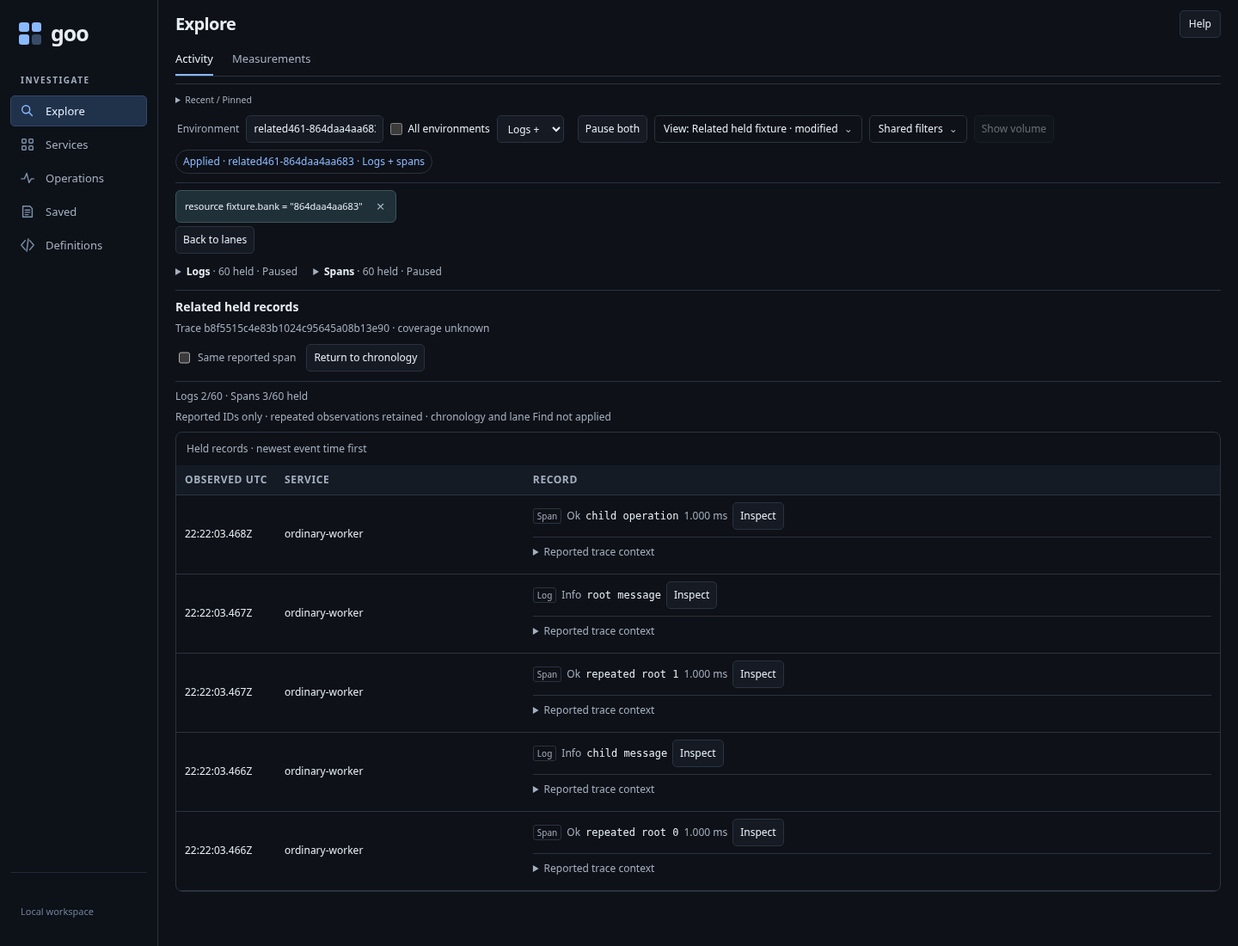
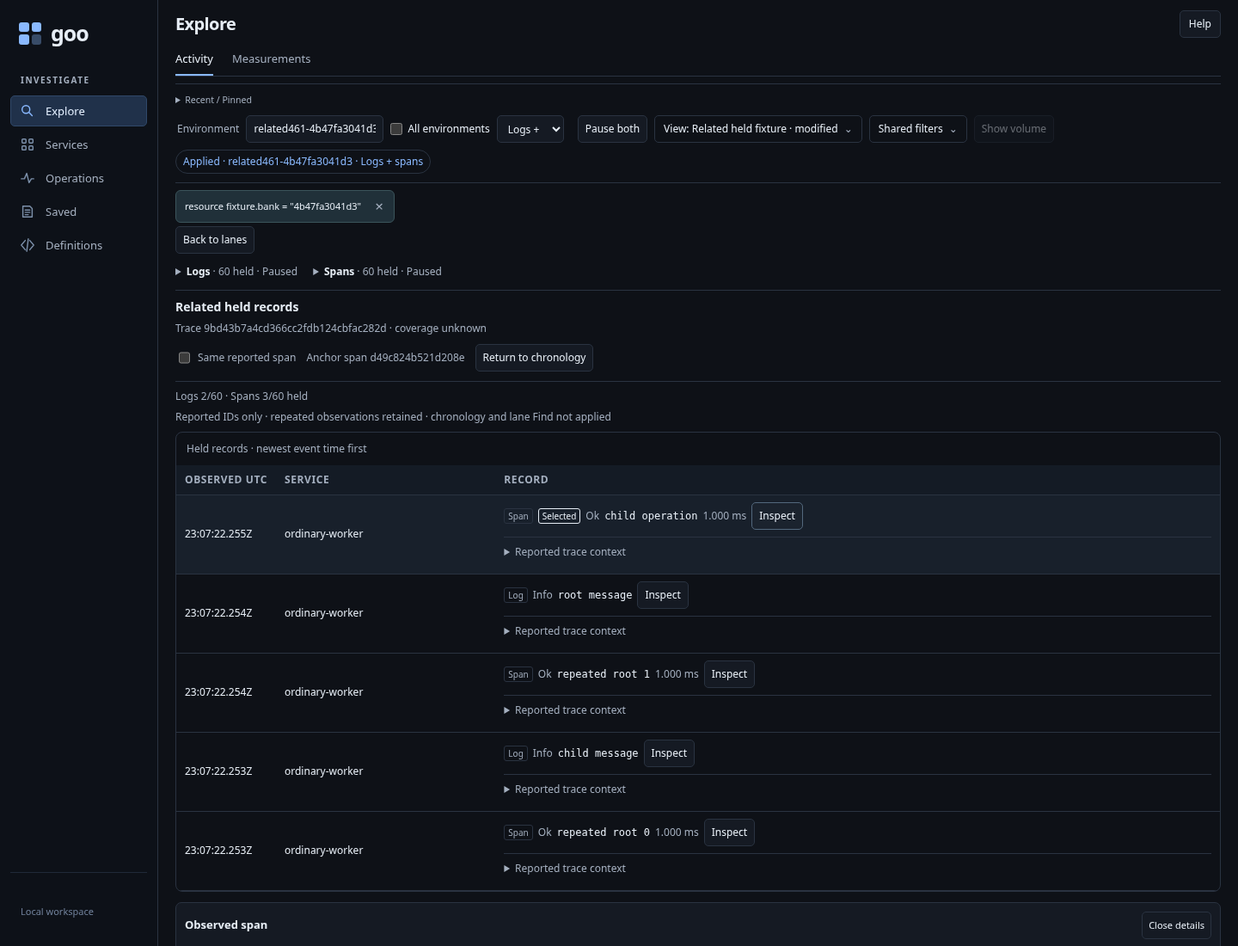
Address independent held-record UX and accessibility findings

diff --git a/journeys/related-held461.spec.js b/journeys/related-held461.spec.js
@@ -22,12 +22,15 @@ test('461 follow reported IDs across held lanes and return without source work',
   await pair().getByRole('button',{name:'Hold chronology',exact:true}).click();await expect(rows()).toHaveCount(100);
   await local('page, related trace/span, inspect and return',async()=>{
    await view().getByRole('button',{name:'More records',exact:true}).click();await expect(rows()).toHaveCount(20);const target=rows().filter({hasText:'child operation'});await target.getByRole('button',{name:/Inspect span/}).click();const before=await snapshot();await inspector().getByRole('button',{name:'Related held records',exact:true}).click();await expect(view()).toHaveAttribute('data-related','trace');await expect(rows()).toHaveCount(5);expect(await rows().evaluateAll(rows=>rows.filter(r=>r.dataset.signal==='logs').length)).toBe(2);await expect(view().locator('[data-related-heading]')).toBeFocused();await inspector().getByRole('button',{name:'Close selected item details',exact:true}).click();await expect(view().locator('[data-related-heading]')).toBeFocused();const childRow=rows().filter({hasText:'child operation'});await childRow.locator('details > summary').focus();await page.keyboard.press('Enter');await expect(childRow.getByText('Ambiguous reported parent',{exact:true})).toBeVisible();
-   await expect(view().getByText('Ambiguous reported parent',{exact:true})).toHaveCount(1);await view().getByRole('checkbox',{name:'Same reported span',exact:true}).check();await expect(rows()).toHaveCount(2);await view().getByRole('checkbox',{name:'Same reported span',exact:true}).uncheck();await expect(rows()).toHaveCount(5);
-   for(const width of [1440,390,320]){await page.setViewportSize({width,height:1100});expect(await page.evaluate(()=>document.documentElement.scrollWidth<=innerWidth+1)).toBe(true);const file='docs/journeys/screenshots/461-related-held-'+width+'.png';await page.screenshot({path:file});report.frames.push(file)}await page.setViewportSize({width:1440,height:1100});
+   await expect(view().getByText('Ambiguous reported parent',{exact:true})).toHaveCount(1);await view().getByRole('checkbox',{name:'Same reported span',exact:true}).check();await expect(rows()).toHaveCount(2);await view().getByRole('checkbox',{name:'Same reported span',exact:true}).uncheck();await expect(rows()).toHaveCount(5);await rows().filter({hasText:'child operation'}).getByRole('button',{name:/Inspect span/}).click();
+   for(const width of [1440,390,320]){await page.setViewportSize({width,height:1100});await page.evaluate(()=>scrollTo(0,0));expect(await page.evaluate(()=>document.documentElement.scrollWidth<=innerWidth+1)).toBe(true);const file='docs/journeys/screenshots/461-related-held-'+width+'.png';await page.screenshot({path:file});report.frames.push(file)}await page.setViewportSize({width:390,height:1100});await page.emulateMedia({forcedColors:'active'});const selectedRow=view().locator('tr[aria-current=true]');await expect(selectedRow.locator('.held-selected-marker')).toBeVisible();const forced=await selectedRow.evaluate(e=>({outline:getComputedStyle(e).outlineStyle,width:parseFloat(getComputedStyle(e).outlineWidth)}));expect(forced.outline).toBe('solid');expect(forced.width).toBeGreaterThanOrEqual(2);await page.evaluate(()=>scrollTo(0,0));await page.screenshot({path:'docs/journeys/screenshots/461-related-forced-colors-390.png'});report.forcedColors=forced;await page.emulateMedia({forcedColors:'none'});await page.setViewportSize({width:1440,height:1100});
    await rows().filter({hasText:'root message'}).getByRole('button',{name:/Inspect log/}).click();await view().getByRole('button',{name:'Return to chronology',exact:true}).click();await expect(view()).toHaveAttribute('data-related','none');const after=await snapshot();expect(after).toEqual(before);await expect(inspector()).toContainText('child operation');expect(await view().evaluate(e=>e.contains(document.activeElement)&&document.activeElement.dataset.chronologyInspect===e.selectedKey)).toBe(true);
   });
   await local('retain chronology Find without applying it to reported context',async()=>{
    await view().getByRole('searchbox',{name:'Find held records',exact:true}).fill('child operation');await expect(rows()).toHaveCount(1);await rows().getByRole('button',{name:/Inspect span/}).click();await inspector().getByRole('button',{name:'Related held records',exact:true}).click();await expect(rows()).toHaveCount(5);await view().getByRole('button',{name:'Return to chronology',exact:true}).click();await expect(view().getByRole('searchbox',{name:'Find held records',exact:true})).toHaveValue('child operation');await expect(rows()).toHaveCount(1);
+  });
+  await local('restore inspector when original row is hidden by Find and paging',async()=>{
+   await view().getByRole('searchbox',{name:'Find held records',exact:true}).fill('background');await view().getByRole('button',{name:'More records',exact:true}).click();await expect(rows().filter({hasText:'child operation'})).toHaveCount(0);const before=await snapshot();await inspector().getByRole('button',{name:'Related held records',exact:true}).click();await rows().filter({hasText:'root message'}).getByRole('button',{name:/Inspect log/}).click();await expect(view().getByRole('checkbox',{name:'Same reported span',exact:true})).toHaveAccessibleDescription('Anchor span '+child);await view().getByRole('button',{name:'Return to chronology',exact:true}).click();expect(await snapshot()).toEqual(before);await expect(inspector()).toContainText('child operation');await expect(view().getByRole('searchbox',{name:'Find held records',exact:true})).toBeFocused();
   });
   const actor=await startBombadil({dir:path.join(dir,'bombadil'),url:runtime.base+'/#activity-view='+entry.id,specification:'verification/bombadil/related-held461.ts',seconds:25,width:390,height:1100});try{const campaign=await actor.finish({snapshot:{name:'state',version:'goo.relatedHeld461Actor/1'}});expect(campaign.states.some(state=>state.phase===8)).toBe(true);report.bombadil={snapshots:campaign.states.length,completed:campaign.states.find(state=>state.phase===8)}}finally{await actor.stop()}
   expect(report.errors).toEqual([]);report.status='passed';

diff --git a/ui/held-chronology-view.css b/ui/held-chronology-view.css
@@ -23,3 +23,7 @@ goo-held-chronology .held-related-scope h4{margin:0;font-size:14px}
 goo-held-chronology .held-related-scope p{flex:1 1 100%;margin:0;font-size:12px;overflow-wrap:anywhere;color:var(--muted,#98a8bf)}
 goo-held-chronology .held-related-scope label{display:flex;align-items:center;gap:6px;font-size:12px;margin:0;min-block-size:32px}
 @media(pointer:coarse){goo-held-chronology .held-related-scope label{min-block-size:44px}}
+
+goo-held-chronology .held-related-anchor{font-size:12px;color:var(--muted,#98a8bf);overflow-wrap:anywhere}
+goo-held-chronology .held-selected-marker{display:inline-block;border:1px solid currentColor;border-radius:3px;padding:0 4px;margin-inline-end:6px;font-size:10px;line-height:1.6}
+@media(forced-colors:active){goo-held-chronology tr[aria-current=true]{outline:2px solid Highlight;outline-offset:-2px}goo-held-chronology .held-selected-marker{color:CanvasText;border-color:CanvasText;background:Canvas}}

diff --git a/docs/reviews/RELATED_HELD_461_ACCESSIBILITY.md b/docs/reviews/RELATED_HELD_461_ACCESSIBILITY.md
@@ -1,0 +1,97 @@
+# Related held records 461 — independent accessibility review
+
+Reviewed 2026-11-16: passive chronology, application inspection owner, shared
+reported-context element, native controls and 1440/390/320 documentation frames.
+This is a focused accessibility/web-standards review, not a full WCAG certification
+or screen-reader audit. No implementation files were changed by the reviewer.
+
+## Acceptance finding
+
+**A1 — fix before closing this polish pass:** selected occurrences use only
+`tr[aria-current=true]` background shading. There is no visual text/shape cue or
+forced-colors boundary. A real Chromium probe using the current component CSS
+produced selected `rgba(255,255,255,.09)` and ordinary
+`rgba(255,255,255,0)` under forced colors, with no outline or border on either.
+On the default white Canvas both composite to white, erasing the visual selected
+state. `aria-current` correctly preserves programmatic state but does not supply
+a visible alternative. Add a persistent non-color indication and an explicit
+system-color boundary under forced colors. Verify selected/unselected rows in
+both light and dark forced palettes without weakening native keyboard focus.
+
+## Recommended refinement
+
+**A2 — anchored span context:** Same reported span stays attached to the original
+scope anchor even when the operator inspects another related observation. Its
+actual SpanId and unavailable reason currently live only in the label's `title`.
+Associate an on-screen anchor label or concise context with the checkbox using
+`aria-describedby`; provide an accessible explanation when it is disabled.
+The explanation must distinguish the fixed scope anchor from the current
+inspector. A full ID can remain in an on-demand disclosure if its relationship
+and any unavailable state are clear without hovering.
+
+## Accepted aspects
+
+- Native buttons, checkbox/label, `details`/`summary`, captioned table, semantic
+  timestamp elements and grouped source facts avoid custom keyboard emulation.
+- Entry focuses and reveals the related heading. Close falls back to that visible
+  heading when the original opener was replaced. Return restores selection and
+  a visible Inspect control rather than focusing the hidden chronology Find.
+- Checkbox updates preserve its focus; the existing atomic polite count/page
+  announcement updates without adding competing live regions.
+- Each Inspect action has a signal/occurrence accessible name. Current selection
+  uses `aria-current`; missing, ambiguous and unreported parent context remains
+  explicit and does not infer causal or healthy state.
+- Related mode keeps its native return control in normal flow, has no modal/focus
+  trap, and does not hide application failures behind teaching text. Native
+  disabled/readiness and stale-control guards withdraw invalid controls.
+- 390/320 frames show wrapped scope/actions with no clipped checkbox or Return
+  action. The related checkbox label and buttons have 44px coarse-pointer sizing.
+- Source isolation is preserved: the passive view derives a subset of the admitted
+  held bank; it has no fetch/subscription/navigation/preservation path.
+
+## Checks and follow-up
+
+Independently ran:
+
+```sh
+node --experimental-test-module-mocks --test \
+ tests/held-chronology-view458.test.mjs \
+ tests/held-chronology-owner458.test.mjs tests/related-held461.test.mjs
+```
+
+All three files pass, zero skips. Standalone Chromium forced-colors probe used
+actual `ui/held-chronology-view.css`, with selected and ordinary rows, without
+using the shared runtime port. Follow-up acceptance is pending A1 and the agreed
+A2 decision, plus new native browser/forced-color evidence from the final build.
+
+## Follow-up acceptance — 2026-11-16
+
+A1 and A2 are resolved in the reviewed source:
+
+- Selected rows now include a persistent **Selected** text marker with a border.
+  It is `aria-hidden` because the row already exposes `aria-current`; visual and
+  assistive-technology state stay equivalent without a duplicated announcement.
+- Forced colors supplies a 2px `Highlight` outline on the current row and
+  `CanvasText` text/border over `Canvas` for the marker. Independently reran an
+  actual Chromium CSS probe in light and dark forced palettes. Selected outline
+  is solid 2px in both; ordinary rows have no outline. Marker contrast is black
+  over white and white over black, respectively (21:1 in both palettes).
+- The **Anchor span** ID or **Anchor span ID not reported** is visible in the
+  scope. The native checkbox references that stable, per-component anchor via
+  `aria-describedby`. Inspecting another related occurrence does not silently
+  change this filter anchor. No hover is needed to identify or explain it.
+- Return emits an explicit local restoration intent. The application resolves
+  the original retained occurrence independently of whether its row remains
+  visible on the recalled page, and uses the visible chronology Find as the
+  focus fallback. This avoids activating a hidden row or making a source read.
+
+Independently reran the same three focused test files after the fixes; all pass,
+zero skips. No remaining blocking source, native-semantics or forced-color finding
+for this bounded feature. Independently inspected the final refreshed 1440/390/320 normal-color frames
+and `461-related-forced-colors-390.png`. The visible Anchor span, selected text
+marker and forced-color selected boundary are readable and unobstructed; all
+scope controls and Return remain in normal flow and wrap without clipping. The
+integration browser additionally verifies the visible marker, solid 2px outline,
+checkbox description and restoration when the original row is hidden by Find.
+Accessibility follow-up acceptance is complete for this bounded feature. This
+does not claim a full screen-reader or WCAG audit.

diff --git a/docs/reviews/RELATED_HELD_461_UX.md b/docs/reviews/RELATED_HELD_461_UX.md
@@ -1,0 +1,98 @@
+# Related held records: independent UX review
+
+Reviewed 2026-11-16: implementation contract, passive chronology and paired owner,
+three accepted 461 screenshots at 1440/390/320px, existing focused tests. This is
+source and visual review, not a live assistive-technology audit.
+
+## Acceptance findings
+
+**Changes required before UX acceptance:**
+
+1. **Restore the original inspector even when its row is outside restored Find or
+   page.** Return currently reopens inspection only if it finds a visible Inspect
+   button with the saved selected key (`held-chronology-view.mjs`, return handler).
+   Reproduction: inspect A, change chronology Find/page so A is absent, drill into A
+   using its still-open inspector, inspect B or close inspection in the related
+   scope, then Return. Find/page restore, but the inspector remains B or closed.
+   Preserve original inspection independently of rendered-row availability;
+   restore A without changing Find/page, and focus Find when A has no visible row.
+   Add a browser case covering a hidden original selected row and a changed
+   related inspection, not just a selected row on the restored page.
+
+2. **Make the anchored span identity visible.** The heading shows only TraceId;
+   `Same reported span` exposes its anchor SpanId only through `title`. Inspecting
+   another related record does not change the scope anchor. Operators can therefore
+   reasonably interpret the checkbox as narrowing to the newly inspected span.
+   Show a compact explicit anchor span reference next to the control, with the
+   full ID accessible on demand. If unavailable, show the reason beside the
+   disabled control. Keep this stable as related inspection changes. A checkbox
+   label such as `Anchor span <short ID>` is clearer than additional prose.
+
+## Accepted parts
+
+- Local drill-in and explicit Return fit the held-bank mental model. Both source
+  lanes, their counts and Paused state stay distinct from the local subset.
+- Trace coverage remains unknown; counts retain held-bank denominators.
+- Repeated observations and ambiguous reported parents are not collapsed into a
+  guessed trace or a healthy/complete result.
+- Desktop and narrow frames fit without overlays or clipped Return controls.
+  Native disclosures keep most explanation off the main reading path.
+- The selected record has a clear visual treatment, and the related scope has a
+  distinct heading and native control grouping.
+
+## Nonblocking refinements for consolidation
+
+- Related rows are materially taller than ordinary chronology rows because each
+  adds a separate context-disclosure line. Consider an inline compact context
+  affordance in the shared record-row composition; retain readable touch targets.
+- `Back to lanes` and `Return to chronology` describe two valid levels. A small
+  shared breadcrumb could eventually make that hierarchy easier to scan, but
+  another navigation control is not needed now.
+- The upstream `Pause both` button remains visible while both held sources are
+  already Paused. Review its state/label with the broader paired-toolbar pass.
+
+Focused chronology model/view/owner tests independently pass (three test files,
+zero skips). Existing coverage does not exercise the hidden-original-inspector
+case above. Follow-up acceptance is pending fixes and fresh browser evidence.
+
+## Follow-up source acceptance
+
+The revised implementation addresses both required findings:
+
+- Return emits a bounded `goo-chronology-return` reading intent. The application
+  resolves the saved occurrence against the original immutable bank, restores its
+  inspector even when no matching row is visible, and uses the visible chronology
+  Find as a safe focus fallback. It does not change Find or page to reveal A.
+- The scope now shows **Anchor span** and the full reported span ID, or **Anchor
+  span ID not reported**. The checkbox describes that visible identity through
+  `aria-describedby`. Inspecting another related record does not silently change
+  the anchor.
+
+New view/owner cases exercise the absent-original-row return path and the visible
+anchor association. The focused three-file model/view/owner suite independently
+passes again, zero skips. Source acceptance is granted; final responsive visual
+acceptance awaits regenerated screenshots and the amended real-OTLP journey.
+The nonblocking consolidation suggestions above remain future work.
+
+## Follow-up responsive review
+
+Fresh 390px and 320px frames are accepted. The full Anchor span ID is visible,
+the checkbox/anchor/Return group wraps without clipping, and the new Selected
+marker distinguishes selection without relying on background color. The scope
+and per-lane held counts remain easy to distinguish from individual records.
+
+The fresh desktop frame confirms readable records/inspector and selection marker,
+but its scroll position crops the scope header and anchor above the frame. This
+is an evidence-framing issue, not a product blocker; capture the related header in
+view for final desktop visual acceptance. Final amended browser receipt remains
+with the implementation owner.
+
+## Final responsive acceptance
+
+The reframed 1440px screenshot is now accepted as well: Related held records,
+TraceId, visible Anchor span, same-span control, Return action, per-lane counts
+and Selected marker are all in view and readable. Combined with the accepted
+390px and 320px frames, responsive UX acceptance is complete for this increment.
+There are no remaining blocking UX findings. The implementation owner records
+final browser receipt and test outcomes separately; the consolidation suggestions
+remain nonblocking future work.

diff --git a/docs/journeys/related-held-records.md b/docs/journeys/related-held-records.md
@@ -31,14 +31,14 @@ a trace was complete or healthy.
 
 ## Executed acceptance — 2026-11-16
 
-Final real-OTLP journey passed in 54.8 seconds with 120 held occurrences.
-Both local drill-in/return boundaries issued zero SQL and zero API POSTs. The
-independent Bombadil driver reached phase 8 across 103 snapshots, with its held
+Final reviewed real-OTLP journey passed in 37.5 seconds with 120 held occurrences.
+All three local drill-in/return boundaries issued zero SQL and zero API POSTs. The
+independent Bombadil driver reached phase 8 across 388 snapshots, with its held
 bank and route unchanged and no local API calls or horizontal overflow. The
 complete fixture used six SQL reads, including the independent driver's explicit
 source setup. Runtime cleanup succeeded; no browser errors occurred.
 
-Receipt: `artifacts/related-held461/864daa4aa683/report.json`.
+Receipt: `artifacts/related-held461/4b47fa3041d3/report.json`.
 
 [Desktop](screenshots/461-related-held-1440.png) ·
 [390px](screenshots/461-related-held-390.png) ·
@@ -50,6 +50,21 @@ its native Quint source-authority contract; that model does not yet describe the
 related-scope reading state itself.
 
 
-The existing chronology regression also passed on this binary: 21 steps, 510
+Before this review follow-up, the existing chronology regression passed on the
+461 implementation: 21 steps, 510
 Bombadil snapshots and native Quint replay with all nine negative controls
 rejected, zero skips. Runtime and isolated database cleanup succeeded.
+
+## Independent polish acceptance
+
+[UX](../reviews/RELATED_HELD_461_UX.md) and
+[accessibility/web standards](../reviews/RELATED_HELD_461_ACCESSIBILITY.md)
+reviewers accepted the fixes and refreshed responsive frames. The extended
+journey also hides the original inspector row with both Find and paging, inspects
+a different related occurrence, then restores the original inspector without
+changing Find/page. Its fixed anchor remains accessible by description throughout.
+
+[390px forced colors](screenshots/461-related-forced-colors-390.png) shows the
+persistent Selected marker and 2px system-color boundary. The runtime records no
+browser errors and cleans up successfully. Native disclosure activation and local
+source isolation remain covered.

diff --git a/VALIDATION.md b/VALIDATION.md
@@ -1,5 +1,31 @@
 # Validation record
 
+## 461 Independent UX/accessibility follow-up — 2026-11-16
+
+[UX review](docs/reviews/RELATED_HELD_461_UX.md) and
+[accessibility/web standards review](docs/reviews/RELATED_HELD_461_ACCESSIBILITY.md).
+
+- Fixed all acceptance findings: Return restores the original inspector even
+  when its row is hidden by Find/paging; a visible, described anchor ID identifies
+  the fixed span filter; selected rows have a non-color text marker and explicit
+  forced-color outline while retaining `aria-current`.
+- Restoration is a guarded local `goo-chronology-return` intent, resolved against
+  the immutable bank independently of visible rows. It preserves Find/page and
+  uses visible Find for safe focus when the original row is absent.
+- **2,107 UI tests pass, zero skipped**; embedded Go runtime rebuilt successfully.
+  New focused view/owner cases cover hidden-row restoration, stale intents,
+  visible marker and checkbox description.
+- Independent actual Chromium probes pass in light and dark forced palettes:
+  selected outline is 2px solid Highlight; marker is CanvasText on Canvas,
+  21:1 in both. No product acceptance blockers remain in follow-up source review.
+- Final real-OTLP journey passes (37.5s): all three local boundaries execute
+  zero SQL/API POSTs, including original-inspector restoration when Find and
+  paging hide its row. Bombadil reaches phase 8 across 388 snapshots with bank
+  and route unchanged. No browser errors; successful runtime cleanup.
+- Both reviewers grant final acceptance after inspecting 1440/390/320 refreshed
+  frames and the 390px forced-color frame. Nonblocking compact-row/toolbar
+  refinements are recorded for 462. This completes the bounded 461 UX review.
+
 ## 461 Related held trace records — 2026-11-16
 
 [Contract](docs/RELATED_HELD_RECORDS.md) and

diff --git a/docs/RELATED_HELD_RECORDS.md b/docs/RELATED_HELD_RECORDS.md
@@ -3,7 +3,9 @@
 Hold both Activity lanes, inspect a record, then choose **Related held records**.
 Goo shows held logs and spans with the same valid reported TraceId. **Same
 reported span** narrows this to the inspected occurrence's valid SpanId within
-that trace. It is disabled when no valid span ID was reported.
+that trace. Its visible **Anchor span** ID stays fixed while other related
+records are inspected. When no valid span ID was reported, the disabled control
+has an associated visible reason.
 
 This is a local scope over the immutable held bank, independent of chronology
 Find and each lane's Find. It does not broaden the source scope, subscribe,
@@ -36,7 +38,12 @@ flowchart LR
 The passive chronology accepts `showRelated(signal, occurrenceKey)` for a current
 held occurrence. The application supplies that occurrence from its guarded
 inspector. A new supplied bank resets local reading state. The component emits
-its existing inspect intent when Return restores the original selected record;
-source and preservation authority remain with the application.
+`goo-chronology-return` with `{selectedKey}` on explicit Return. The application
+restores that original inspector even when Find or paging hides its row, using
+visible Find as the focus fallback. Source and preservation authority remain
+with the application.
 
 [Executable storyboard](journeys/related-held-records.md).
+
+Selected occurrences have a persistent text marker and forced-color outline,
+in addition to programmatic `aria-current`.

diff --git a/docs/UI_COMPONENTS.md b/docs/UI_COMPONENTS.md
@@ -2350,8 +2350,11 @@ the component does not acquire authority to navigate or read a source.
 
 Related mode retains the chronology's Find, page, selection and scroll return
 point. Same reported span is optional and stays inside the selected TraceId.
-Return restores the previous selected occurrence through the existing
-`goo-chronology-inspect` intent. New supplied data retires the local scope.
+Explicit Return emits `goo-chronology-return` with `{selectedKey}`. The owner
+restores that inspector independently of visible row availability, preserving
+Find/page and using visible Find as the fallback opener. New supplied data retires
+the local scope. The span checkbox describes a visible fixed anchor ID or
+unavailable reason; selected rows retain a text marker and forced-color boundary.
 Reported parent display reuses `goo-record-context`, using only held spans as
 parent candidates. Repeated occurrences remain separate; parent ambiguity and
 unknown trace coverage stay explicit. See [contract](RELATED_HELD_RECORDS.md).

diff --git a/docs/KNOWN_ISSUES.md b/docs/KNOWN_ISSUES.md
@@ -17,6 +17,9 @@ shared scope, [independent lane conditions](PAIRED_ACTIVITY_FILTERS.md) and layo
 with paused recall and explicit Start. [Held chronology](HELD_CHRONOLOGY.md) orders paused lane observations locally.
 [Related held records](RELATED_HELD_RECORDS.md) follows valid reported IDs locally
 and restores the original chronology. Trace coverage remains unknown.
+The independent [UX](reviews/RELATED_HELD_461_UX.md) and
+[accessibility](reviews/RELATED_HELD_461_ACCESSIBILITY.md) follow-ups address
+hidden-row inspector restoration, visible span anchors and non-color selection.
 Saving a chronology-specific presentation, merged selection/capture and paired
 baseline attachments remain outside this format. No combined count or health verdict is inferred.
 

diff --git a/docs/ROADMAP_2026_11_14_CHECKPOINT_429.md b/docs/ROADMAP_2026_11_14_CHECKPOINT_429.md
@@ -433,3 +433,9 @@ selection/capture and paired baseline attachments remain separate design work.
 
 462 then consolidates the demonstrated record-context projections, interaction
 state, accessible controls and performance before the next breadth cycle.
+
+
+The [461 UX review](reviews/RELATED_HELD_461_UX.md) also feeds 462: consider
+compact shared row-context disclosures and clearer navigation hierarchy without
+adding another control, and reconcile the paired toolbar's Pause state. These
+are consolidation refinements, not missing trace/source authority primitives.
